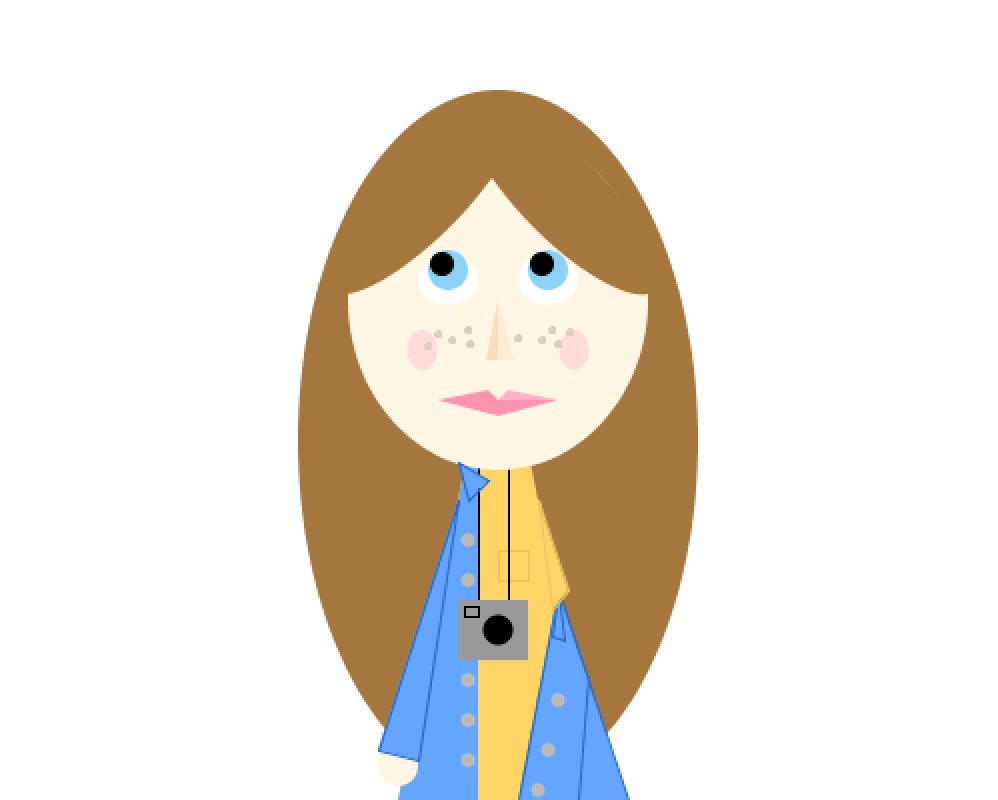
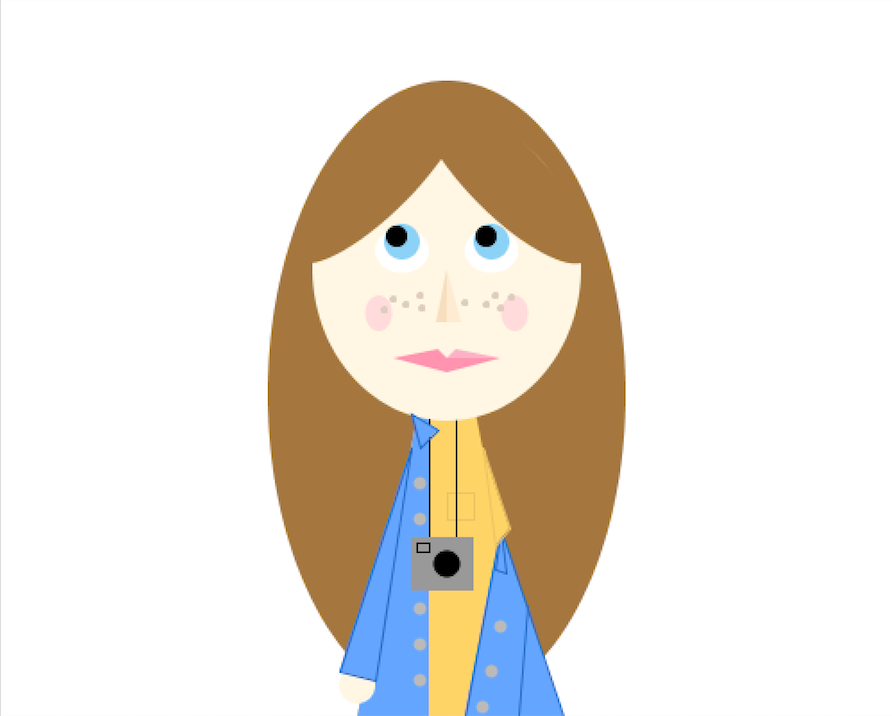
image

diff --git a/processing.html b/processing.html
@@ -21,7 +21,7 @@
 	<h3>Self Portrait</h3>
 	<br>
 	<br>
-	<img src="images/processing.png" width="500" height="400">
+	<img src="images/processing.png">
 	<br>
 	<br>
 	<h3>Bouncing Ball</h3>
